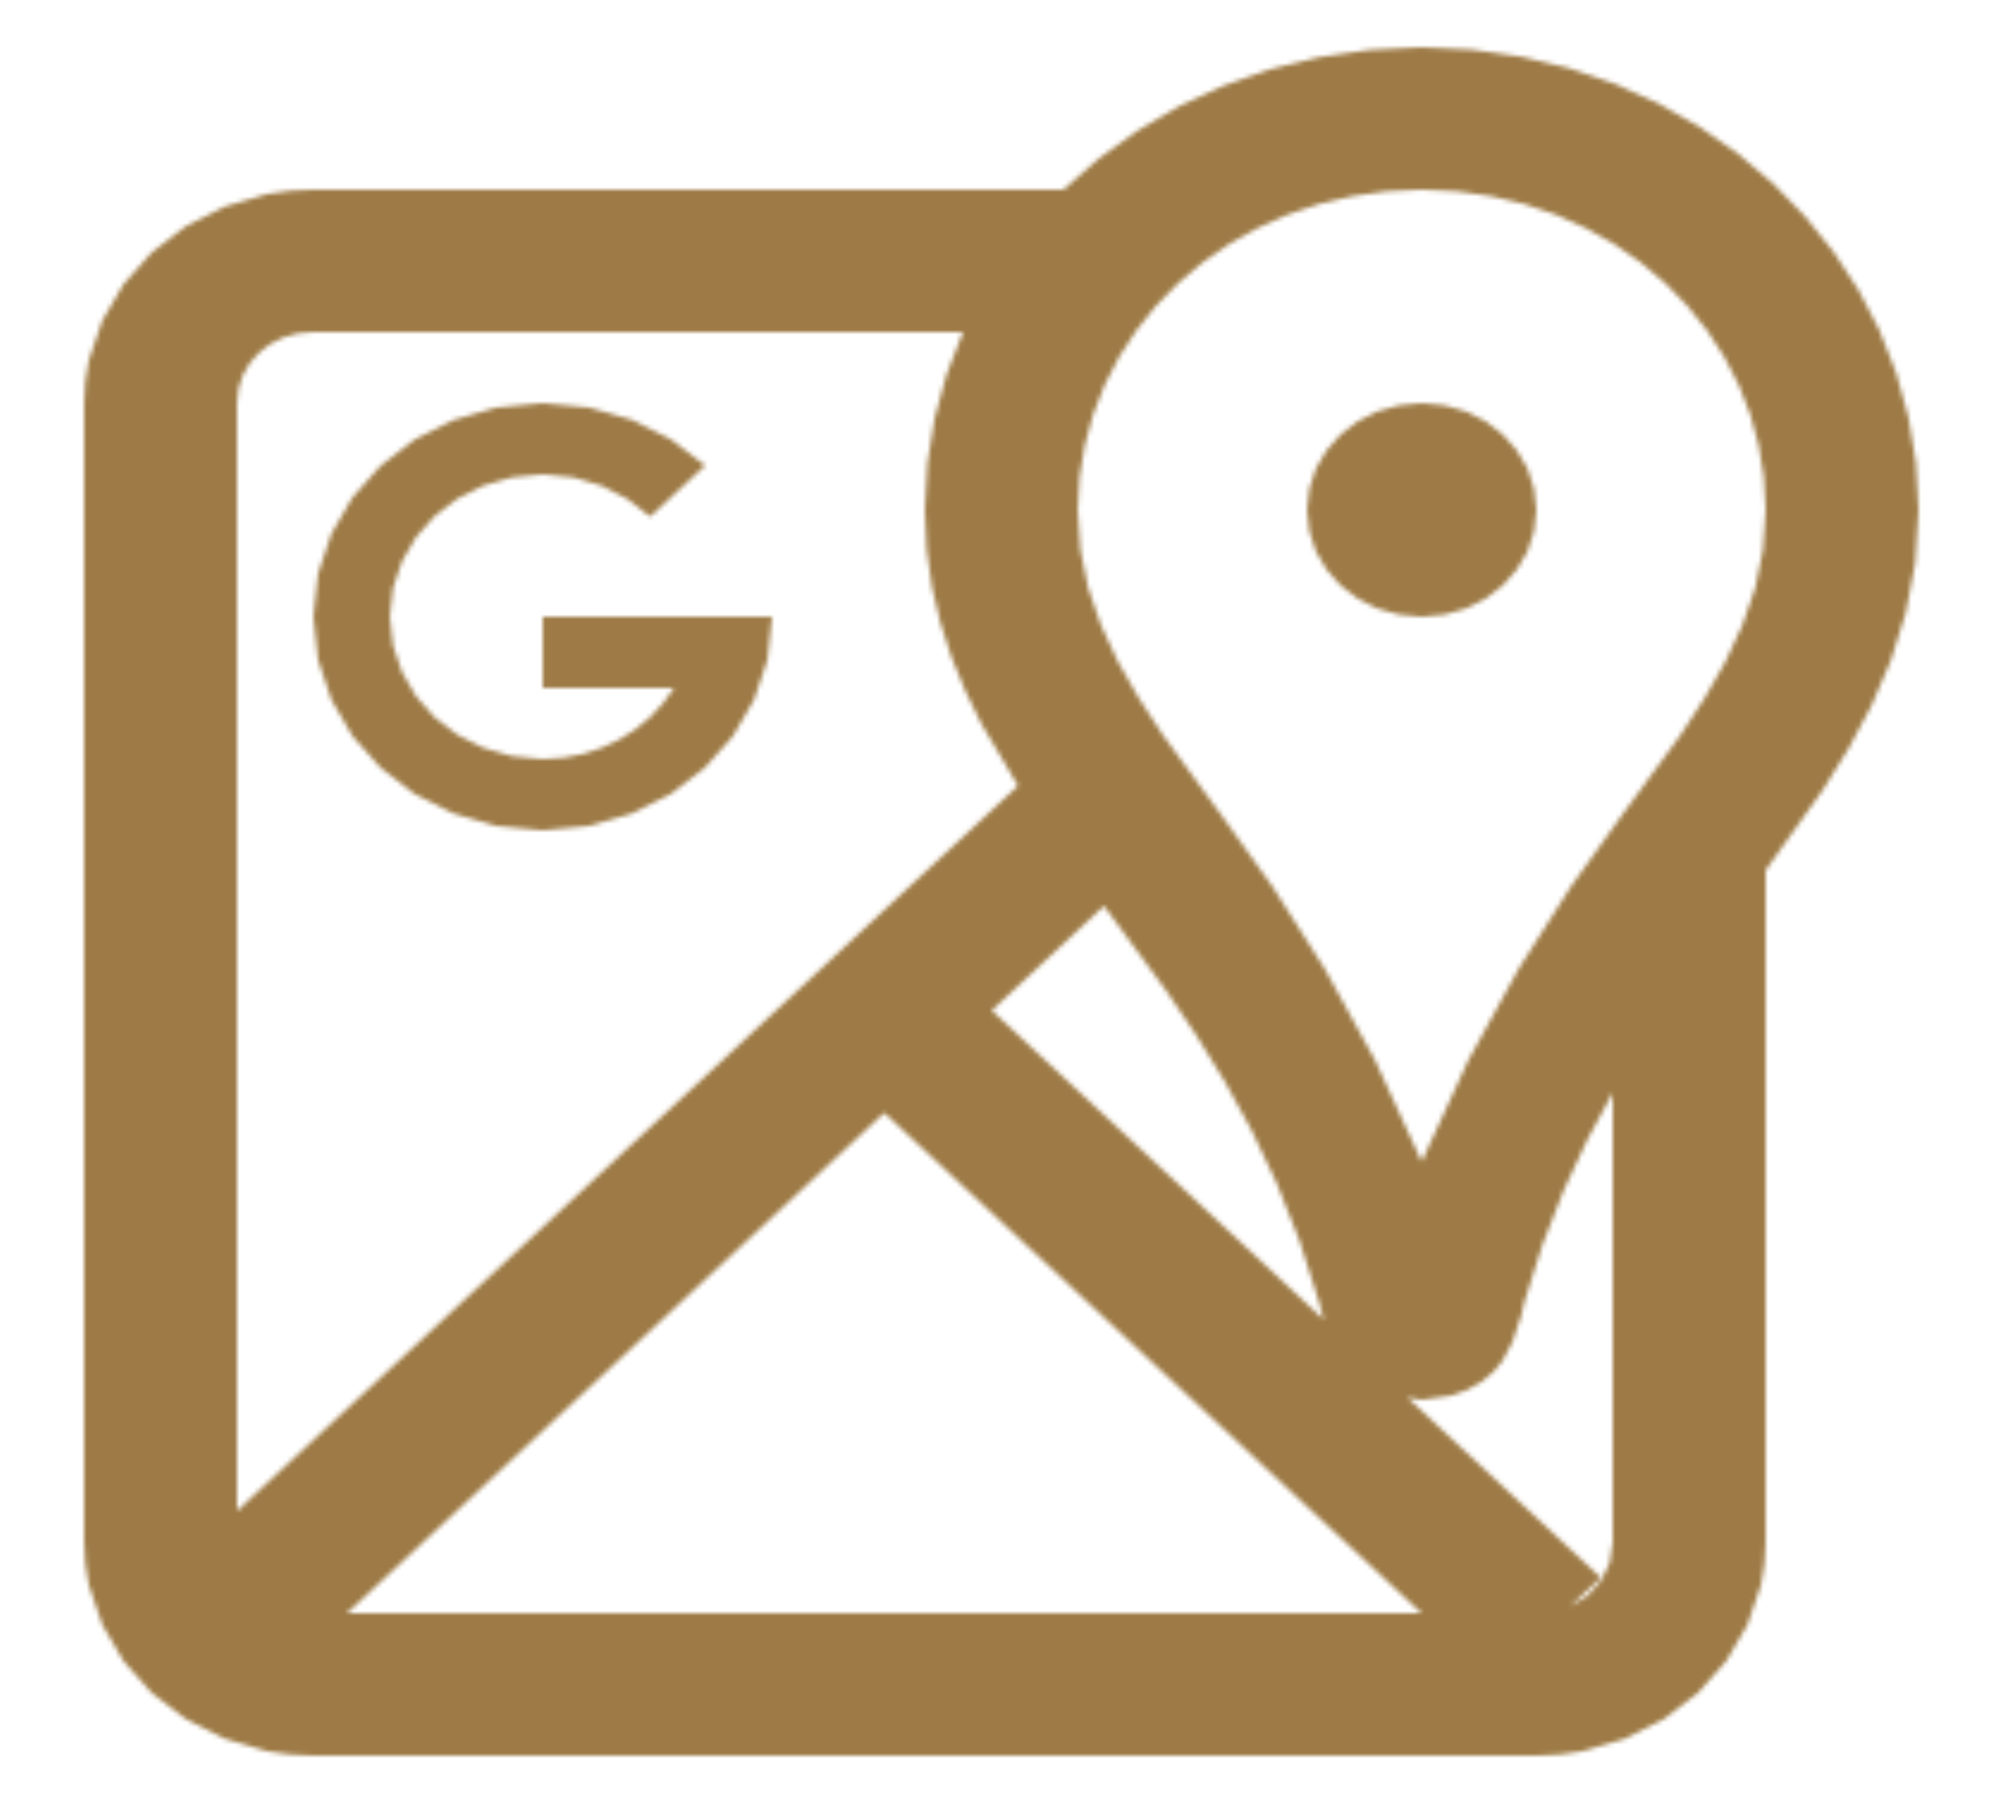
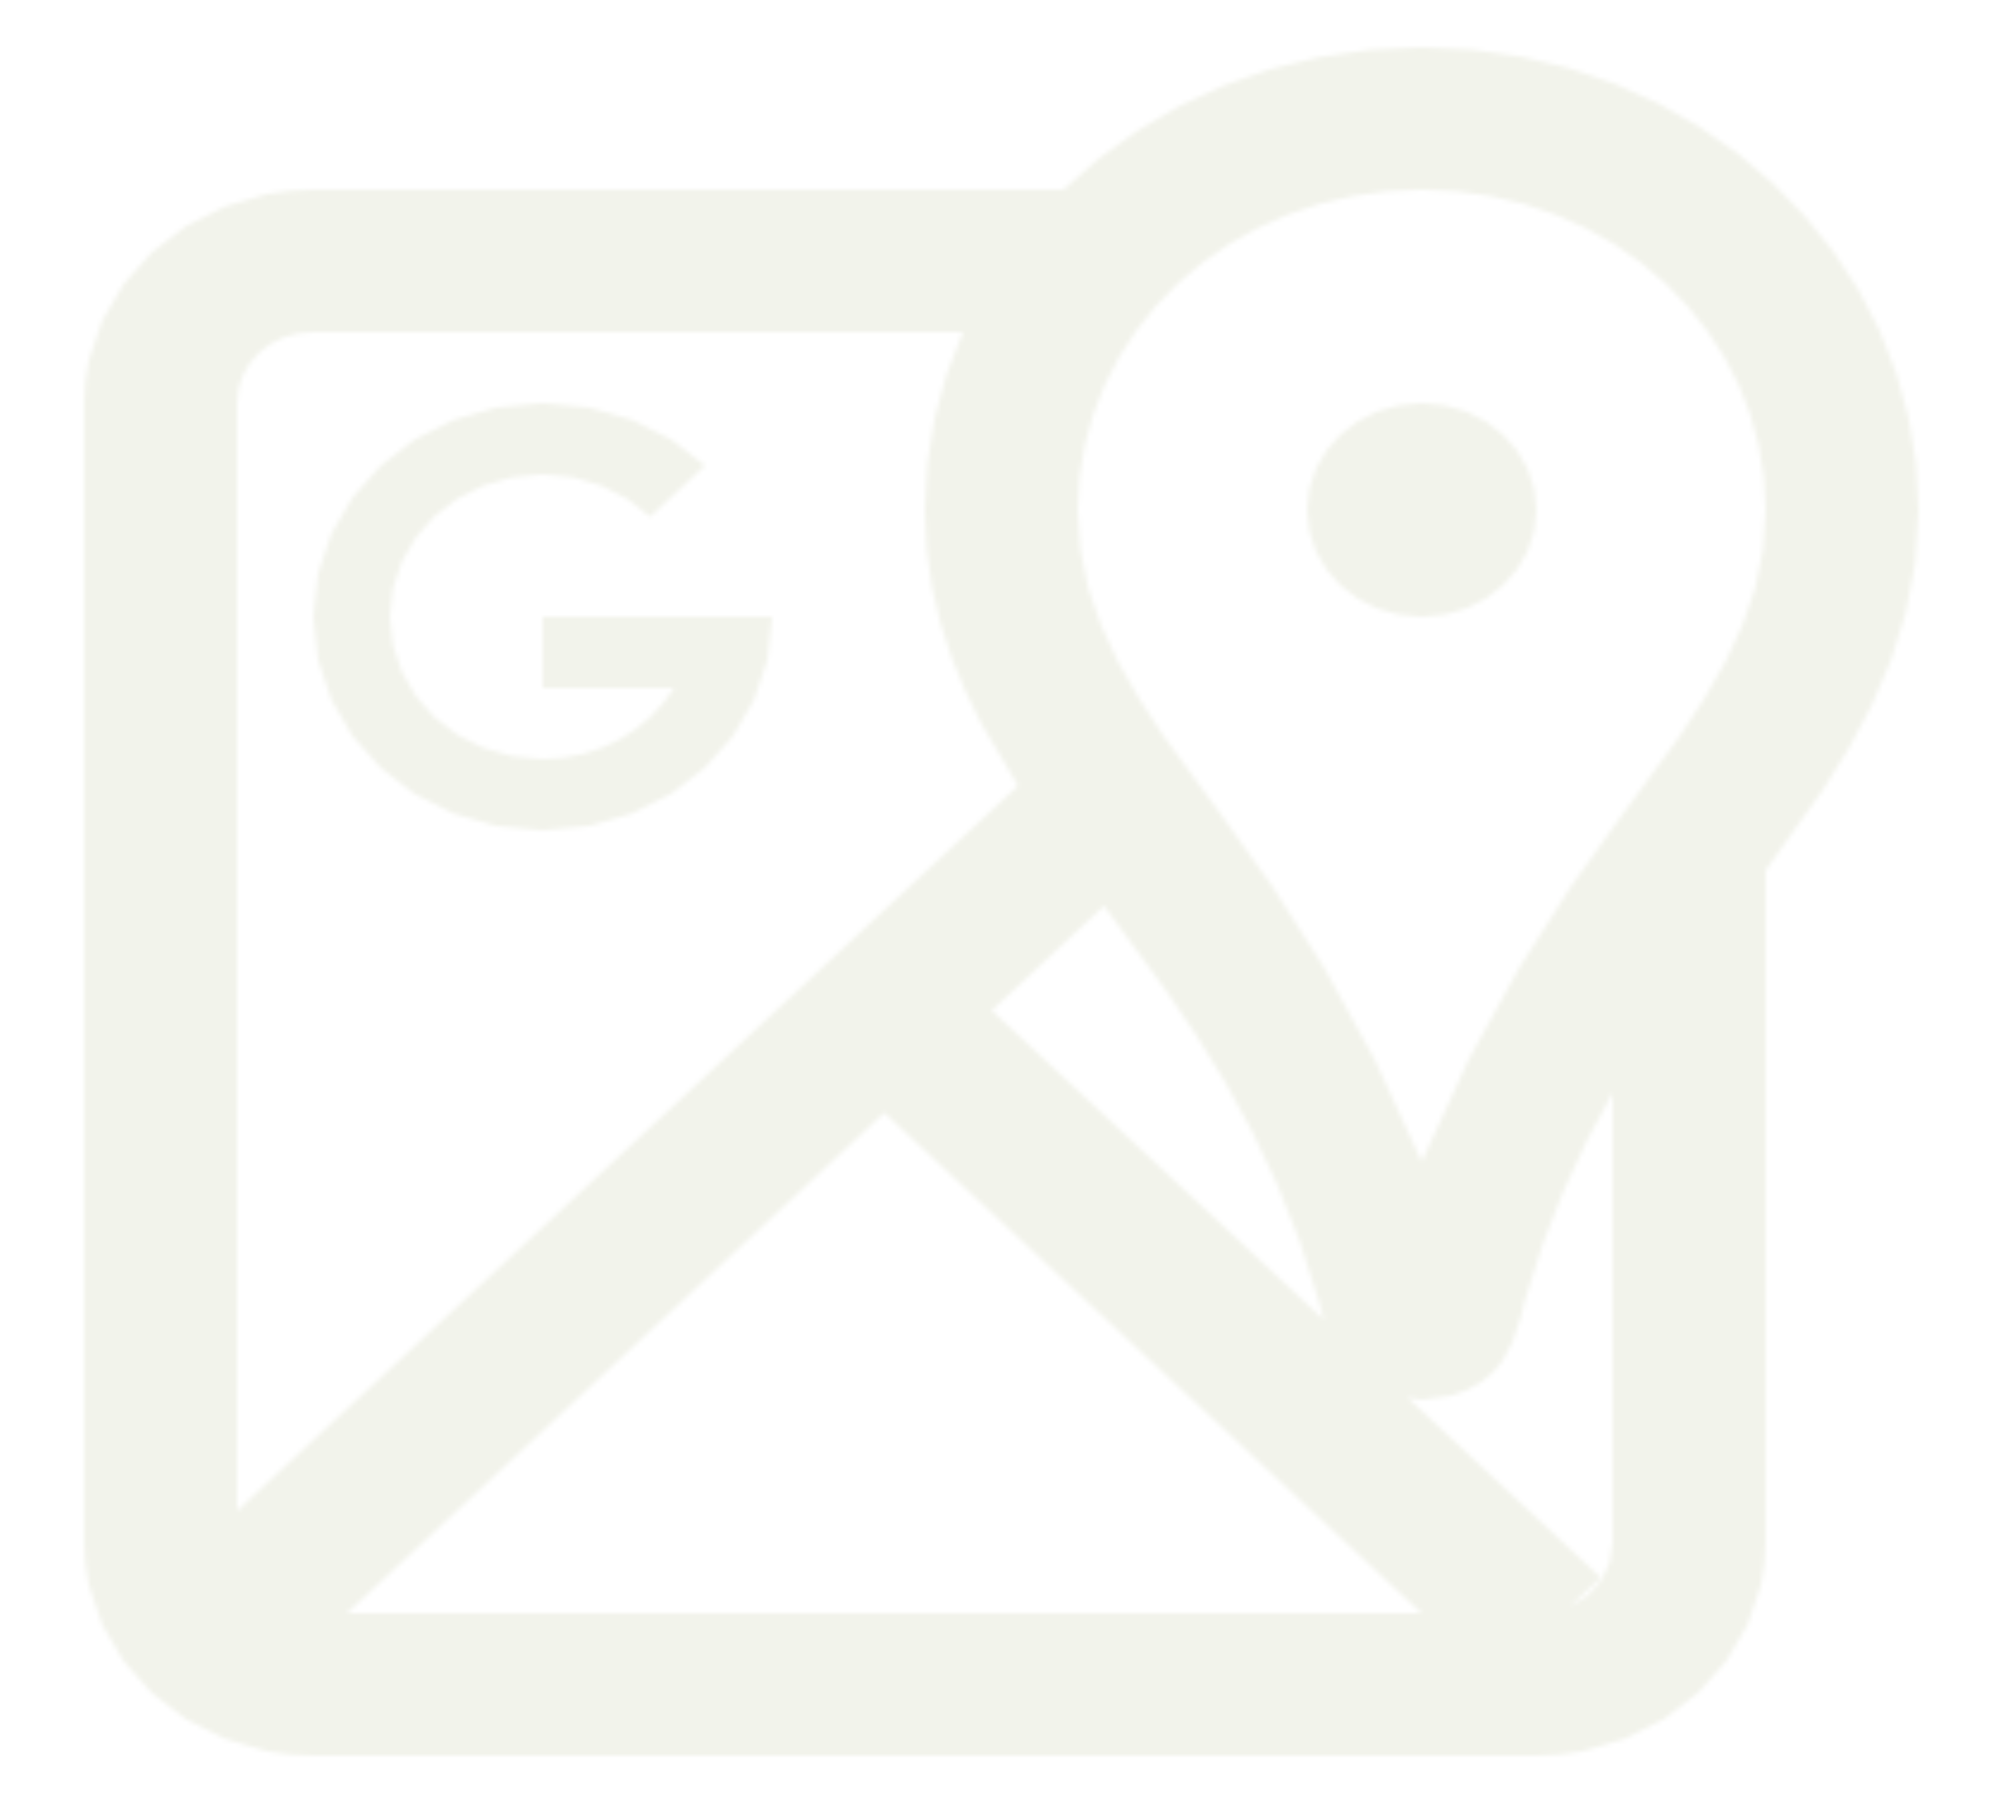
A4

diff --git a/index.html b/index.html
@@ -62,7 +62,7 @@
     <link rel="shortcut icon" href="https://alessandroscarpellini.it/wedding/assets/favicons/favicon.ico">
 
     <!-- Page Title -->
-    <title>Claudia · Alessandro</title>
+    <title>Stefany · Brando</title>
 
     <!-- Styles -->
     <!-- <link rel="stylesheet" href="https://cdn.jsdelivr.net/npm/bootstrap@4.6.2/dist/css/bootstrap.min.css" integrity="sha384-xOolHFLEh07PJGoPkLv1IbcEPTNtaed2xpHsD9ESMhqIYd0nLMwNLD69Npy4HI+N" crossorigin="anonymous"> -->
@@ -223,9 +223,12 @@
         <p>"Tu presencia es nuestro mejor regalo,<br>pero si deseas hacernos un obsequio te dejamos estas opciones:"</p>
         <ul>
             <li>Lluvia de sobres</li>
+            <li>&nbsp;</li>
             <li>Nuestras Cuentas</li>
-            <li>Cuenta 1</li>
-            <li>Cuenta 2</li>
+            <li>&nbsp;</li>
+            <li>Brando Daniel Reyes Bargas<br>Cuanta ahorro Banpaís: 213000313984</li>
+            <li>&nbsp;</li>
+            <li>Stefany Alejandra Martínez Aguilar<br>Cuenta Bac: 750286791</li>
         </ul>
     </div>
 
@@ -243,7 +246,7 @@
 
     <div id="myModal" class="modal">
       <div class="modal-content">
-        
+        <span class="close">&times;</span>
         <form class="contact-form" action="send_email.php" method="post">
             <!-- <h2>Contact Us</h2> -->
             <input type="text" name="name" placeholder="Nombre" required>
@@ -264,19 +267,19 @@
         
         // Open modal
         openBtn.onclick = function() {
-        modal.style.display = "block";
+            modal.style.display = "block";
         }
         
         // Close modal when clicking the close button
         closeBtn.onclick = function() {
-        modal.style.display = "none";
+            modal.style.display = "none";
         }
         
         // Close modal when clicking outside the modal content
         window.onclick = function(event) {
-        if (event.target === modal) {
-            modal.style.display = "none";
-        }
+            if (event.target === modal) {
+                modal.style.display = "none";
+            }
         }
     });
 </script>

diff --git a/assets/css/main.min.css b/assets/css/main.min.css
@@ -38,7 +38,8 @@
     /*--c-bg: hsl(1, 17%, 95%);*/
     --c-bg: rgba(96, 98, 71);
     /* --c-text: hsl(0, 15%, 55%); */
-    --c-text: rgba(158, 123, 70);
+    /* --c-text: rgba(158, 123, 70); */
+    --c-text: rgba(242, 243, 235);
     --font-family: "Campton", sans-serif;
     --font-serif: "Didot LT", Didot, serif;
     --font-size: 17px;
@@ -294,10 +295,12 @@ body {
 
 .outline-btn {
     background: transparent;
-    color: rgba(158, 123, 70);
+    /* color: rgba(158, 123, 70); */
+    color: rgba(242, 243, 235);
     padding: 12px 28px;
     font-size: 24px;
-    border: 2px solid rgba(158, 123, 70);
+    /* border: 2px solid rgba(158, 123, 70); */
+    border: 2px solid rgba(242, 243, 235);
     border-radius: 8px;
     cursor: pointer;
     transition: all 0.3s ease;
@@ -307,8 +310,9 @@ body {
 
 /* Hover effect */
 .outline-btn:hover {
+    color: rgba(158, 123, 70);
     background-color: rgba(158, 123, 70, 0.1); /* subtle background */
-    color: white;
+    /* color: white; */
     border-color: rgba(158, 123, 70, 0.8);
     transform: scale(1.05);
     box-shadow: 0 6px 12px rgba(158, 123, 70, 0.4);
@@ -370,6 +374,7 @@ body {
     font-size: 28px;
     font-weight: bold;
     cursor: pointer;
+    color: rgba(158, 123, 70, 0.8);
   }
   
   /* Optional animation */
